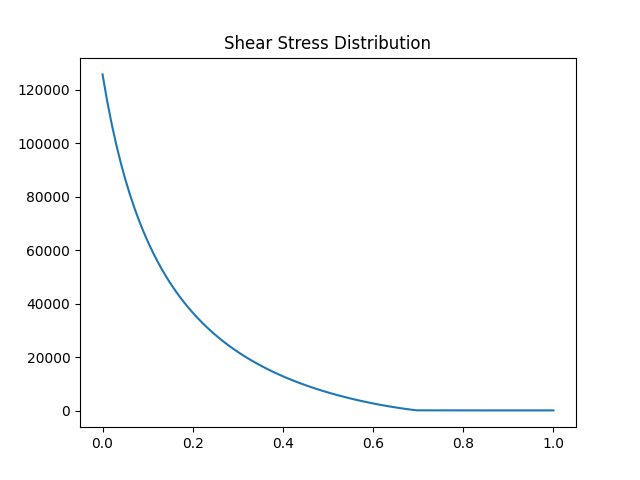
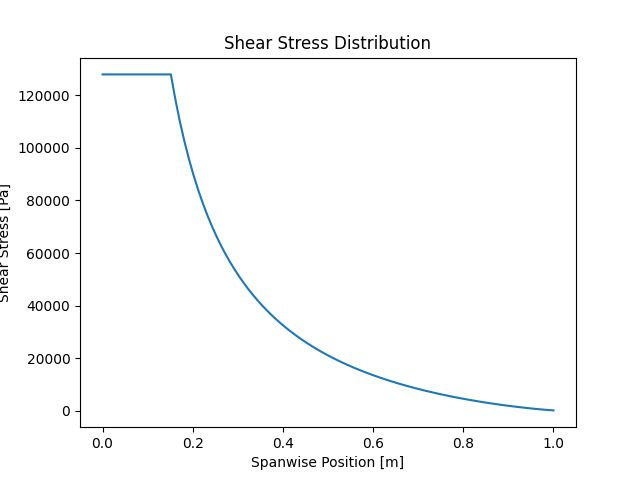
implemented shear force calculations | updated shear stress | torsion and shear stress don't go to zero at the tip

diff --git a/src_final/structural_analysis/wing-loading.py b/src_final/structural_analysis/wing-loading.py
@@ -69,7 +69,7 @@ class WingModel:
         torsion_each_node = self.tosrion_node_tot(reduced_sectional_spanwise_positions)
         torsion_each_node = np.concatenate(( np.full(np.size(c_stations) - np.size(torsion_each_node), torsion_each_node[0]),torsion_each_node))
         
-        print(torsion_each_node, np.size(torsion_each_node))
+        #print(torsion_each_node, np.size(torsion_each_node))
 
         #print(self.lift_cont_forces(reduced_sectional_spanwise_positions))
         #plt.plot(reduced_sectional_spanwise_positions,self.tosrion_node_tot(reduced_sectional_spanwise_positions))
@@ -123,8 +123,8 @@ class WingModel:
         self.shear_node_tot = interp1d(reduced_sectional_spanwise_positions,shear_wall_cop)
     
         shear_each_node = self.shear_node_tot(reduced_sectional_spanwise_positions)
-        shear_each_node = np.append(shear_each_node,np.full(np.size(c_stations) - np.size(shear_each_node), shear_each_node[-1]))
-
+        shear_each_node = np.concatenate(( np.full(np.size(c_stations) - np.size(shear_each_node), shear_each_node[0]), shear_each_node))
+        
         # Step 7 (optional): print values for debug
         if debug:
             print(f'Number of stations [-]: {len(c_stations)}')
@@ -132,12 +132,16 @@ class WingModel:
             print(f'Skin thickness [m]: {thickness_skin}')
             print(f'Chord lengths [m]: {c_stations}')
             print(f'Spanwise positions [m]: {y_stations}')
+            print(f'Torsion [N/m]: {torsion_stations_cop}')
+            print(f'Cross-section Areas [m2]: {cross_section_areas_cop}')
             print(f'Shear stress [Pa]: {shear_each_node}')
 
         # Step 8 (optional): Plot
         if plot:
             fig = plt.figure()
             plt.plot(y_stations, shear_each_node)
+            plt.xlabel("Spanwise Position [m]")
+            plt.ylabel("Shear Stress [Pa]")
             plt.title("Shear Stress Distribution")
             fig.savefig('shear_stress_distribution.png')
             plt.show()
@@ -159,13 +163,34 @@ class WingModel:
         y_stations_cop = y_stations[-np.size(reduced_sectional_spanwise_positions):]
 
         # Step 2: Integrate to get the shear force
+        lift_cont_forces_cop = self.lift_cont_forces(y_stations_cop)
+        self.shear_cont_forces = cumulative_trapezoid(lift_cont_forces_cop,y_stations_cop, initial=0)
 
+        # Step 3: Interpolate the shear
+        self.shear_node_tot = interp1d(reduced_sectional_spanwise_positions,self.shear_cont_forces)
+    
+        shear_each_node = self.shear_node_tot(reduced_sectional_spanwise_positions)
+        shear_each_node = shear_each_node[-1] - shear_each_node
+        shear_each_node = np.concatenate(( np.full(np.size(c_stations) - np.size(shear_each_node), shear_each_node[0]), shear_each_node))
+        
         # Step 3 (optional): print intermediate values for debug
+        if debug:
+            print(f'Number of sections: {nr_sections}')
+            print(f'Spanwise positions [m]: {y_stations}')
+            print(f'Distributed lift [N]: {lift_cont_forces_cop}')
+            print(f'Shear force [N]: {shear_each_node}')             
 
         # Step 4 (optional): plot
+        if plot:
+            fig = plt.figure()
+            plt.plot(y_stations, shear_each_node)
+            plt.xlabel('Spanwise Position [m]')
+            plt.ylabel("Shear Force [N]")
+            plt.title("Shear Force Distribution")
+            fig.savefig('shear_force_distribution.png')
+            plt.show()
         
-
-        return shear_force
+        return shear_each_node
 
     def step_moment():
     #distance from root and lift
@@ -221,7 +246,10 @@ if __name__=='__main__':
                                                      initial_total_aircraft_mass=50.0,
                                                      number_of_stations=100)
         c_stations = planform.sectional_properties(number_of_sections=100)[0]
-        print(c_stations)
-        torsion = wing_model.step_torsion_determination(c_stations,nr_sections,span_poz,lift_span)
-        print(torsion)
-        shear = wing_model.step_shear_stress(reduced_sectional_spanwise_positions=span_poz, nr_sections=nr_sections, modified_sectional_lifts_schrenk=lift_span, debug = True, plot = True)
+        #print(c_stations)
+        #torsion = wing_model.step_torsion_determination(c_stations,nr_sections,span_poz,lift_span)
+        #print(torsion)
+        shear = wing_model.step_shear_stress(reduced_sectional_spanwise_positions=span_poz, nr_sections=nr_sections,
+                                             modified_sectional_lifts_schrenk=lift_span, debug = True, plot = True)
+        shear_force = wing_model.step_shear_forces(reduced_sectional_spanwise_positions=span_poz,
+                                                   modified_sectional_lifts_schrenk=lift_span,debug = False, plot = True)
